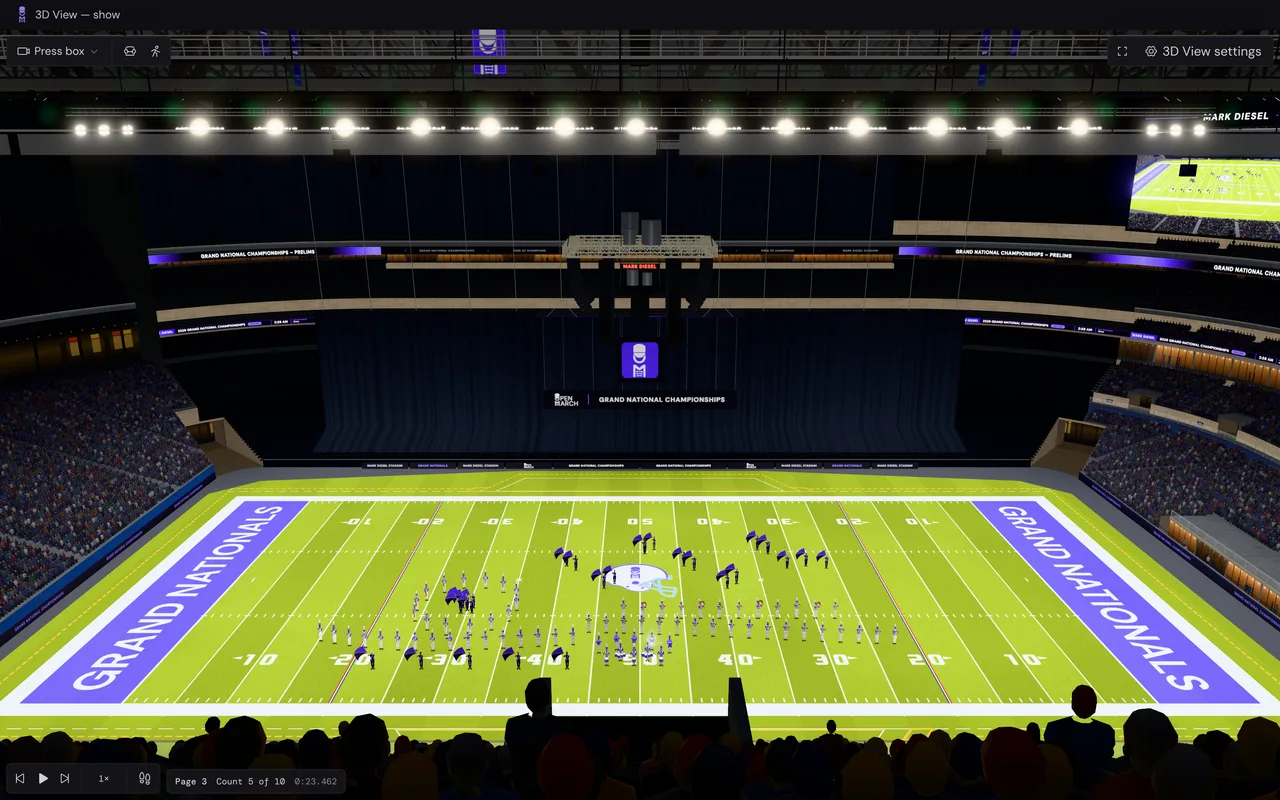
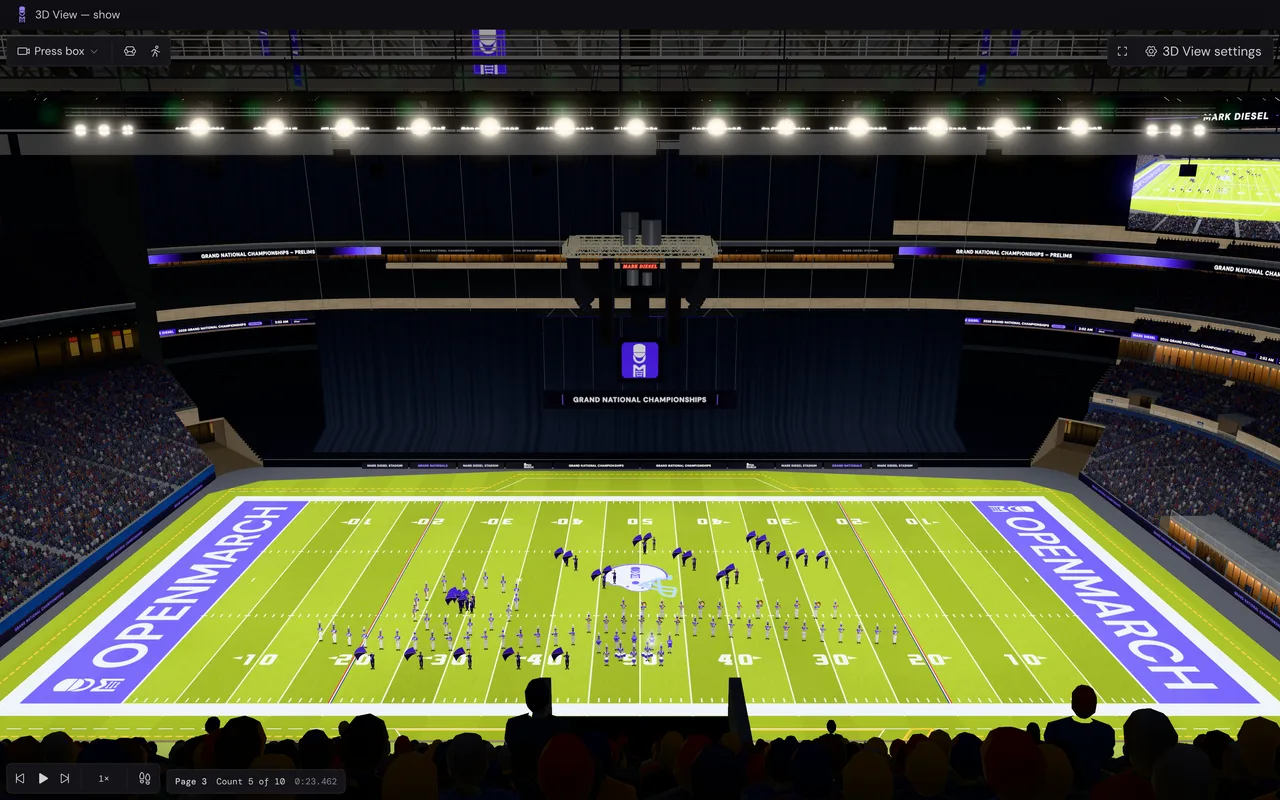
feat(view3d): keep OPENMARCH end zones, slant the red signs like the real ones
The end zones go back to OPENMARCH by default. The drape's banner drops
its logo and reads GRAND NATIONAL CHAMPIONSHIPS alone. The red suite
signs set MARK DIESEL in a heavy serif leaning 12 degrees, as the
stadium's LUCAS OIL STADIUM letters do. The ring of legends' seam
diamond is whole.

diff --git a/apps/desktop/src/view3d/core/kits/markDiesel/brand.ts b/apps/desktop/src/view3d/core/kits/markDiesel/brand.ts
@@ -15,9 +15,9 @@ import type { ShowCredits, VenueParams } from "../../types";
 /**
  * The venue's identity: everything in the hall that carries a name or a
  * logo is painted here, on canvas. The hall is Mark Diesel Stadium, dressed
- * for the GRAND NATIONAL CHAMPIONSHIPS; OpenMarch's marks stay few and at
- * the back of the field: the drape's logo panel and banner, two sideline
- * boards, the flags in the roof and the marcher on the midfield helmet. No
+ * for the GRAND NATIONAL CHAMPIONSHIPS; OpenMarch's marks stay few: the
+ * drape's logo panel, two back sideline boards, the flags in the roof, the
+ * end zones and the marcher on the midfield helmet. No
  * other brand, real or made up. The marks are OpenMarch's own, never
  * redrawn:
  *
@@ -31,7 +31,8 @@ import type { ShowCredits, VenueParams } from "../../types";
  * near-black of the app's dark theme (`packages/ui/src/tailwind.css`); the
  * type is DM Sans, the app's face.
  *
- * Everywhere else the hall names itself and the event: the LED ribbons,
+ * Everywhere else the hall names itself and the event: the drape's banner,
+ * the LED ribbons,
  * the video boards' header and card, the field wall's pads, the other
  * sideline boards, the rafter banners, the ring of legends and the plaza's
  * monument signs. The boards and ribbons show the show's own title when it
@@ -65,20 +66,19 @@ export const OPENMARCH_SIGN = "OPENMARCH";
 export const DIESEL_NAME = "MARK DIESEL";
 export const DIESEL_STADIUM = "MARK DIESEL STADIUM";
 export const DIESEL_EVENT = "GRAND NATIONAL CHAMPIONSHIPS";
-/** The event's short name, for the end zones and the smaller signs. */
+/** The event's short name, for the smaller signs. */
 export const DIESEL_EVENT_SHORT = "GRAND NATIONALS";
 /** The round of the event the hall is dressed for. */
 export const DIESEL_ROUND = "PRELIMS";
 
 /**
  * The venue's colors and end-zone lettering for a show that has not chosen
- * its own (`KIT_VENUE_PARAMS`): the event's name, as a championship paints
- * its end zones, in OpenMarch's colors.
+ * its own (`KIT_VENUE_PARAMS`): OpenMarch's, the same as every kit's.
  */
 export const DIESEL_VENUE_PARAMS: Readonly<VenueParams> = Object.freeze({
     homeColor: OM.violet,
     awayColor: "#c23b3b",
-    endZoneText: DIESEL_EVENT_SHORT,
+    endZoneText: OPENMARCH_SIGN,
     endZoneColor: OM.violet,
 });
 
@@ -102,13 +102,24 @@ export interface SignTextOptions {
     weight?: number;
     /** Shrinks the text to fit this width. */
     maxWidth?: number;
+    /** Leans the letters right by this much width per height (an oblique). */
+    slant?: number;
+    /** A font family in place of DM Sans. */
+    family?: string;
 }
 
-const signFont = (cap: number) => `700 ${cap / CAP}px ${TEXTURE_FONT}`;
+const signFont = (cap: number, family = TEXTURE_FONT) =>
+    `700 ${cap / CAP}px ${family}`;
 
 /** Width of `text` as `signText` sets it at this cap height. */
-function signWidth(g: G, text: string, cap: number, spacing = 0.04): number {
-    g.font = signFont(cap);
+function signWidth(
+    g: G,
+    text: string,
+    cap: number,
+    spacing = 0.04,
+    family?: string,
+): number {
+    g.font = signFont(cap, family);
     tracking(g, (spacing * cap) / CAP);
     const width = g.measureText(text).width;
     tracking(g, 0);
@@ -128,8 +139,8 @@ export function signText(
     cap: number,
     options: SignTextOptions,
 ): number {
-    const { color, align = "left", spacing = 0.04 } = options;
-    let width = signWidth(g, text, cap, spacing);
+    const { color, align = "left", spacing = 0.04, family } = options;
+    let width = signWidth(g, text, cap, spacing, family);
     if (options.maxWidth && width > options.maxWidth) {
         cap *= options.maxWidth / width;
         width = options.maxWidth;
@@ -137,7 +148,12 @@ export function signText(
     const left =
         align === "center" ? x - width / 2 : align === "right" ? x - width : x;
     g.save();
-    g.font = signFont(cap);
+    // Lean the letters about their baseline's middle, so the run stays
+    // centered where it was set.
+    const slant = options.slant ?? 0;
+    g.translate(left + (slant * cap) / 2, cy + cap / 2);
+    if (slant) g.transform(1, 0, -slant, 1, 0, 0);
+    g.font = signFont(cap, family);
     tracking(g, (spacing * cap) / CAP);
     g.textAlign = "left";
     g.textBaseline = "alphabetic";
@@ -145,8 +161,8 @@ export function signText(
     g.strokeStyle = color;
     g.lineJoin = "round";
     g.lineWidth = ((options.weight ?? 0.025) * cap) / CAP;
-    g.fillText(text, left, cy + cap / 2);
-    if (g.lineWidth > 0) g.strokeText(text, left, cy + cap / 2);
+    g.fillText(text, -(slant * cap) / 2, 0);
+    if (g.lineWidth > 0) g.strokeText(text, -(slant * cap) / 2, 0);
     tracking(g, 0);
     g.restore();
     return width;
@@ -292,8 +308,8 @@ export function paintLogoPanel(g: G, w: number, h: number): void {
 export const DIESEL_BANNER_ASPECT = 10;
 
 /**
- * The drape's banner: the logo, a lavender rule, and GRAND NATIONAL
- * CHAMPIONSHIPS, white on black.
+ * The drape's banner: GRAND NATIONAL CHAMPIONSHIPS, white on black, between
+ * two lavender rules.
  */
 export function paintChampionshipBanner(g: G, w: number, h: number): void {
     g.fillStyle = OM.ink;
@@ -301,24 +317,21 @@ export function paintChampionshipBanner(g: G, w: number, h: number): void {
     g.strokeStyle = "rgba(207,203,230,0.18)";
     g.lineWidth = Math.max(2, h * 0.012);
     g.strokeRect(h * 0.05, h * 0.05, w - h * 0.1, h - h * 0.1);
-    const logoH = h * 0.66;
-    const logoW = logoH * LOGO_ASPECT;
     const gap = h * 0.55;
-    const cap = h * 0.34;
-    const textW = Math.min(
-        signWidth(g, DIESEL_EVENT, cap, 0.06),
-        w - h * 1.2 - logoW - 2 * gap,
-    );
-    let at = (w - (logoW + 2 * gap + textW)) / 2;
-    paintLogo(g, at + logoW / 2, h / 2, logoH, OM.white);
-    at += logoW + gap;
-    g.fillStyle = OM.lavender;
-    g.fillRect(at - h * 0.015, h * 0.22, h * 0.03, h * 0.56);
-    signText(g, DIESEL_EVENT, at + gap, h / 2, cap, {
+    const textW = signText(g, DIESEL_EVENT, w / 2, h / 2, h * 0.34, {
         color: OM.white,
+        align: "center",
         spacing: 0.06,
-        maxWidth: textW,
+        maxWidth: w - h * 2 - 2 * gap,
     });
+    g.fillStyle = OM.lavender;
+    for (const side of [-1, 1])
+        g.fillRect(
+            w / 2 + side * (textW / 2 + gap) - h * 0.015,
+            h * 0.22,
+            h * 0.03,
+            h * 0.56,
+        );
 }
 
 /**
@@ -377,10 +390,13 @@ export function paintNameRing(g: G, w: number, h: number): void {
     g.fillRect(0, 0, w, 2);
     g.fillRect(0, h - 2, w, 2);
     const slot = w / RING_LEGENDS.length;
+    // A diamond at each slot's edge; the one on the tile's seam is drawn at
+    // both ends, so its halves meet where the tile repeats.
+    g.fillStyle = OM.lavender;
+    for (let i = 0; i <= RING_LEGENDS.length; i++)
+        diamond(g, i * slot, h / 2, h * 0.22);
     RING_LEGENDS.forEach((legend, i) => {
         const x = i * slot;
-        g.fillStyle = OM.lavender;
-        diamond(g, x, h / 2, h * 0.22);
         signText(g, legend, x + slot / 2, h / 2, h * 0.24, {
             color: "#eceaf4",
             align: "center",

diff --git a/apps/desktop/src/view3d/core/kits/__test__/markDieselBrand.test.ts b/apps/desktop/src/view3d/core/kits/__test__/markDieselBrand.test.ts
@@ -222,7 +222,7 @@ describe("Venue brand painters", () => {
                 paintRafterBanner(g, banner, 256, 640),
             );
         });
-        // OpenMarch's marks: the drape, the flags and two sideline boards.
+        // OpenMarch's marks: the drape's panel, the flags and two boards.
         const branded = Object.entries(faces)
             .filter(([, text]) => /\[logo\]|\[marcher\]|openmarch/i.test(text))
             .map(([face]) => face);
@@ -231,13 +231,13 @@ describe("Venue brand painters", () => {
         ).filter((f) => f !== null);
         expect(logoBoards).toHaveLength(2);
         expect(branded.sort()).toEqual(
-            ["logoPanel", "banner", "flag", ...logoBoards].sort(),
+            ["logoPanel", "flag", ...logoBoards].sort(),
         );
         for (const [face, text] of Object.entries(faces))
             expect(text, face).not.toMatch(
                 /lucas|colts|yamaha|bands of america|\bboa\b|openmarch\.com/i,
             );
-        expect(faces.banner).toBe("[logo] | GRAND NATIONAL CHAMPIONSHIPS");
+        expect(faces.banner).toBe("GRAND NATIONAL CHAMPIONSHIPS");
         expect(faces.ribbonUpper).toContain(
             "GRAND NATIONAL CHAMPIONSHIPS – PRELIMS",
         );
@@ -303,12 +303,10 @@ describe("Venue brand painters", () => {
         expect(dieselClock(new Date(2027, 0, 1, 12, 0)).time).toBe("12:00 PM");
     });
 
-    it("letters the end zones with the event, in OpenMarch's colors", () => {
+    it("defaults the end zones to OpenMarch's, as every kit does", () => {
+        expect(DIESEL_VENUE_PARAMS).toEqual(DEFAULT_VENUE_PARAMS);
         expect(DIESEL_VENUE_PARAMS).toEqual(KIT_VENUE_PARAMS.markDiesel);
-        expect(DIESEL_VENUE_PARAMS).toEqual({
-            ...DEFAULT_VENUE_PARAMS,
-            endZoneText: "GRAND NATIONALS",
-        });
+        expect(DIESEL_VENUE_PARAMS.endZoneText).toBe("OPENMARCH");
     });
 });
 
@@ -341,13 +339,11 @@ describe("Mark Diesel midfield art", () => {
         expect(written((g) => dieselFieldArt.paint(g, 256, 256))).toBe(
             "[marcher]",
         );
-        // The end zones say GRAND NATIONALS.
+        // The end zones say OPENMARCH.
         const zones = plan.items.filter((i) => i.role === "endZoneText");
         expect(zones).toHaveLength(2);
         expect(
-            zones.every(
-                (z) => z.type === "text" && z.text === "GRAND NATIONALS",
-            ),
+            zones.every((z) => z.type === "text" && z.text === "OPENMARCH"),
         ).toBe(true);
     });
 

diff --git a/apps/desktop/src/view3d/core/kits/markDiesel/stadiumSign.ts b/apps/desktop/src/view3d/core/kits/markDiesel/stadiumSign.ts
@@ -14,8 +14,9 @@ import type { DieselFrame } from "./frame";
  * The red signs on the suite level's fascia at the 50, one over each
  * sideline: a black raceway box with lit channel letters. Photo 13 shows
  * the west one above the 200s; photo 6 shows the east one between the
- * drape's two hangs. Here they spell the hall's name, MARK DIESEL, in the
- * same red LED.
+ * drape's two hangs. Their letters are a heavy serif leaning right
+ * (photo 17: LUCAS OIL STADIUM); here they spell the hall's name, MARK
+ * DIESEL, in the same red LED.
  */
 
 /** Size of the box, meters: length, height, depth off the fascia. */
@@ -23,6 +24,12 @@ export const STADIUM_SIGN = { length: 7.2, height: 0.95, depth: 0.32 };
 /** The letters' red, and the dark face they stand on. */
 const LED_RED = "#ff2a1c";
 const FACE = "#0a0a0c";
+
+/** The channel letters' face: a heavy serif, leaning 12 degrees. */
+const LETTERS = {
+    family: 'Georgia, "DejaVu Serif", "Noto Serif", serif',
+    slant: Math.tan((12 * Math.PI) / 180),
+};
 
 /** Canvas pixels per meter of the sign's face. */
 const PX = 160;
@@ -39,8 +46,9 @@ export function paintStadiumSign(
     const options = {
         color: LED_RED,
         align: "center" as const,
-        spacing: 0.08,
-        maxWidth: w * 0.92,
+        spacing: 0.06,
+        maxWidth: w * 0.88,
+        ...LETTERS,
     };
     // The glow off the letters' faces, then the letters.
     g.save();

diff --git a/apps/desktop/src/view3d/core/__test__/venueSettings.test.ts b/apps/desktop/src/view3d/core/__test__/venueSettings.test.ts
@@ -220,10 +220,10 @@ describe("defaultVenueForField", () => {
 });
 
 describe("a kit's starting params", () => {
-    it("gives Mark Diesel the event in its end zones, as the kit paints them", () => {
+    it("gives Mark Diesel OpenMarch's name and colors, as the kit paints them", () => {
         const params = defaultVenueForKit("markDiesel").params;
         expect(params).toEqual({ ...DIESEL_VENUE_PARAMS });
-        expect(params.endZoneText).toBe("GRAND NATIONALS");
+        expect(params.endZoneText).toBe("OPENMARCH");
         expect(defaultParamsForKit("hs")).toEqual({ ...DEFAULT_VENUE_PARAMS });
         // A fresh object each time.
         expect(defaultParamsForKit("markDiesel")).not.toBe(

diff --git a/apps/desktop/src/view3d/core/venueSettings.ts b/apps/desktop/src/view3d/core/venueSettings.ts
@@ -165,7 +165,7 @@ export const KIT_VENUE_PARAMS: Readonly<
     markDiesel: Object.freeze({
         homeColor: "#6442ff",
         awayColor: "#c23b3b",
-        endZoneText: "GRAND NATIONALS",
+        endZoneText: "OPENMARCH",
         endZoneColor: "#6442ff",
     }),
 };
